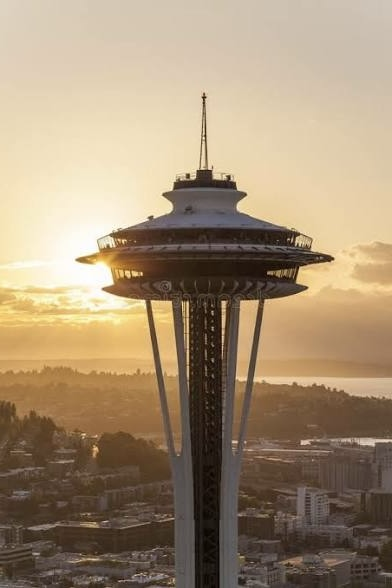
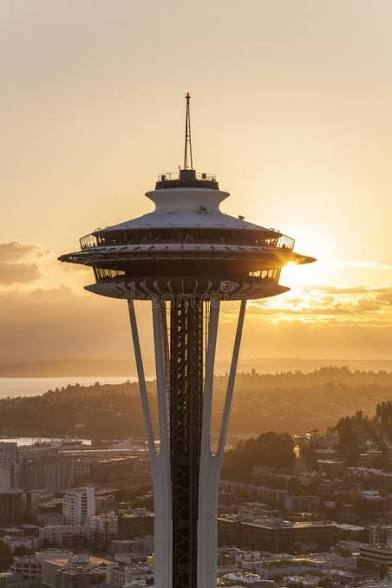
Update the dashboard to display a different background during midday
Implements a midday background image (IMG_6144.jpeg) between 10 AM and 2 PM in `static/js/dashboard.js`, and adds a test parameter.

Replit-Commit-Author: Agent
Replit-Commit-Session-Id: c8764c34-adcc-487d-9f73-b92e2fcde9bc
Replit-Commit-Screenshot-Url: https://storage.googleapis.com/screenshot-production-us-central1/fc158c80-3791-4226-8194-f900dc1df650/08fd5bb8-2875-4536-9a84-574bb2094aff.jpg

diff --git a/static/js/dashboard.js b/static/js/dashboard.js
@@ -39,10 +39,12 @@ function simulateTimeOfDay(testHour) {
     
     const root = document.documentElement;
     
-    // Check for morning time window (6:00 AM - 10:00 AM)
+    // Check for time-based background images
     let backgroundImage = "url('/static/IMG_6138.jpeg')"; // Default dusk image
-    if (timeDecimal >= 6 && timeDecimal <= 10) {
-        backgroundImage = "url('/static/IMG_6143.jpeg')"; // Morning image
+    if (timeDecimal >= 6 && timeDecimal < 10) {
+        backgroundImage = "url('/static/IMG_6143.jpeg')"; // Morning image (6-10 AM)
+    } else if (timeDecimal >= 10 && timeDecimal < 14) {
+        backgroundImage = "url('/static/IMG_6144.jpeg')"; // Midday image (10 AM-2 PM)
     }
     root.style.setProperty('--bg-image', backgroundImage);
     
@@ -110,10 +112,12 @@ function updateDynamicBackground() {
     
     const root = document.documentElement;
     
-    // Check for morning time window (6:00 AM - 10:00 AM)
+    // Check for time-based background images
     let backgroundImage = "url('/static/IMG_6138.jpeg')"; // Default dusk image
-    if (timeDecimal >= 6 && timeDecimal <= 10) {
-        backgroundImage = "url('/static/IMG_6143.jpeg')"; // Morning image
+    if (timeDecimal >= 6 && timeDecimal < 10) {
+        backgroundImage = "url('/static/IMG_6143.jpeg')"; // Morning image (6-10 AM)
+    } else if (timeDecimal >= 10 && timeDecimal < 14) {
+        backgroundImage = "url('/static/IMG_6144.jpeg')"; // Midday image (10 AM-2 PM)
     }
     root.style.setProperty('--bg-image', backgroundImage);
     
@@ -180,6 +184,8 @@ function initializeDashboard() {
     // Add test controls for time simulation (temporary)
     if (window.location.search.includes('test=morning')) {
         simulateTimeOfDay(7); // 7 AM morning
+    } else if (window.location.search.includes('test=midday')) {
+        simulateTimeOfDay(12); // 12 PM midday
     } else if (window.location.search.includes('test=noon')) {
         simulateTimeOfDay(12); // Noon
     } else if (window.location.search.includes('test=evening')) {
